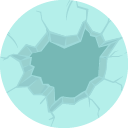
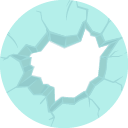
Működik a sátor

Changed region(s): [[0.2188, 0.2188, 0.8438, 0.7812]]

diff --git a/src/com/company/PalyaView.java b/src/com/company/PalyaView.java
@@ -243,7 +243,7 @@ public class PalyaView extends JPanel {
         SatorVisitor sv = new SatorVisitor();
         if (mezo.getTargy() != null) {
             if (mezo.getTargy().accept(sv)) {
-                retegek.add(images.get("Sator"));
+                retegek.add(images.get("Sator_T"));
             }
         }
 
@@ -286,32 +286,22 @@ public class PalyaView extends JPanel {
             Rectangle2D r = this.getBounds();
             g2.fill(r);
         } catch (java.io.IOException ex) {
+            ex.printStackTrace();
         }
     }
 
-    /**
-     * Pálya frissítése.
-     *
-     * @param k A kontroller amitől lekérjük a pályát amit frissiteni szeretnénk.
-     */
-   /* public void ujra(Kontroller k) {
-        update(k.getPalya());
-
-    }
-
-    */
 
     /**
      * Ikonok betöltése
      */
-
     void loadImages() {
         try {
             images.put("Jegtabla", read(new File("Resources/Assets/Jegtabla-01.png")));
             images.put("Lyuk", read(new File("Resources/Assets/Lyuk-01.png")));
             images.put("Ho", read(new File("Resources/Assets/Ho-01.png")));
             images.put("Iglu", read(new File("Resources/Assets/Iglu-01.png")));
-            images.put("Sator", read(new File("Resources/Assets/Sator-01.png")));
+            images.put("Sator_T", read(new File("Resources/Assets/Sator-01.png")));
+            images.put("Sator", read(new File("Resources/Assets/Sator_Le-01.png")));
             images.put("0-Pisztoly", read(new File("Resources/Assets/1-Pisztoly-01.png")));
             images.put("1-Pisztoly", read(new File("Resources/Assets/2-Pisztoly-01.png")));
             images.put("2-Pisztoly", read(new File("Resources/Assets/3-Pisztoly-01.png")));

diff --git a/src/com/company/View.java b/src/com/company/View.java
@@ -42,10 +42,4 @@ class View extends JFrame {
         this.getContentPane().add(palyaView, BorderLayout.CENTER);
         this.getContentPane().add(jatekosView, BorderLayout.EAST);
     }
-    /*
-    public void ujra(Kontroller k,Jatekos aktiv){
-        jatekosView.ujra(aktiv);
-        //palyaView.ujra(k);
-    }
-     */
 }
